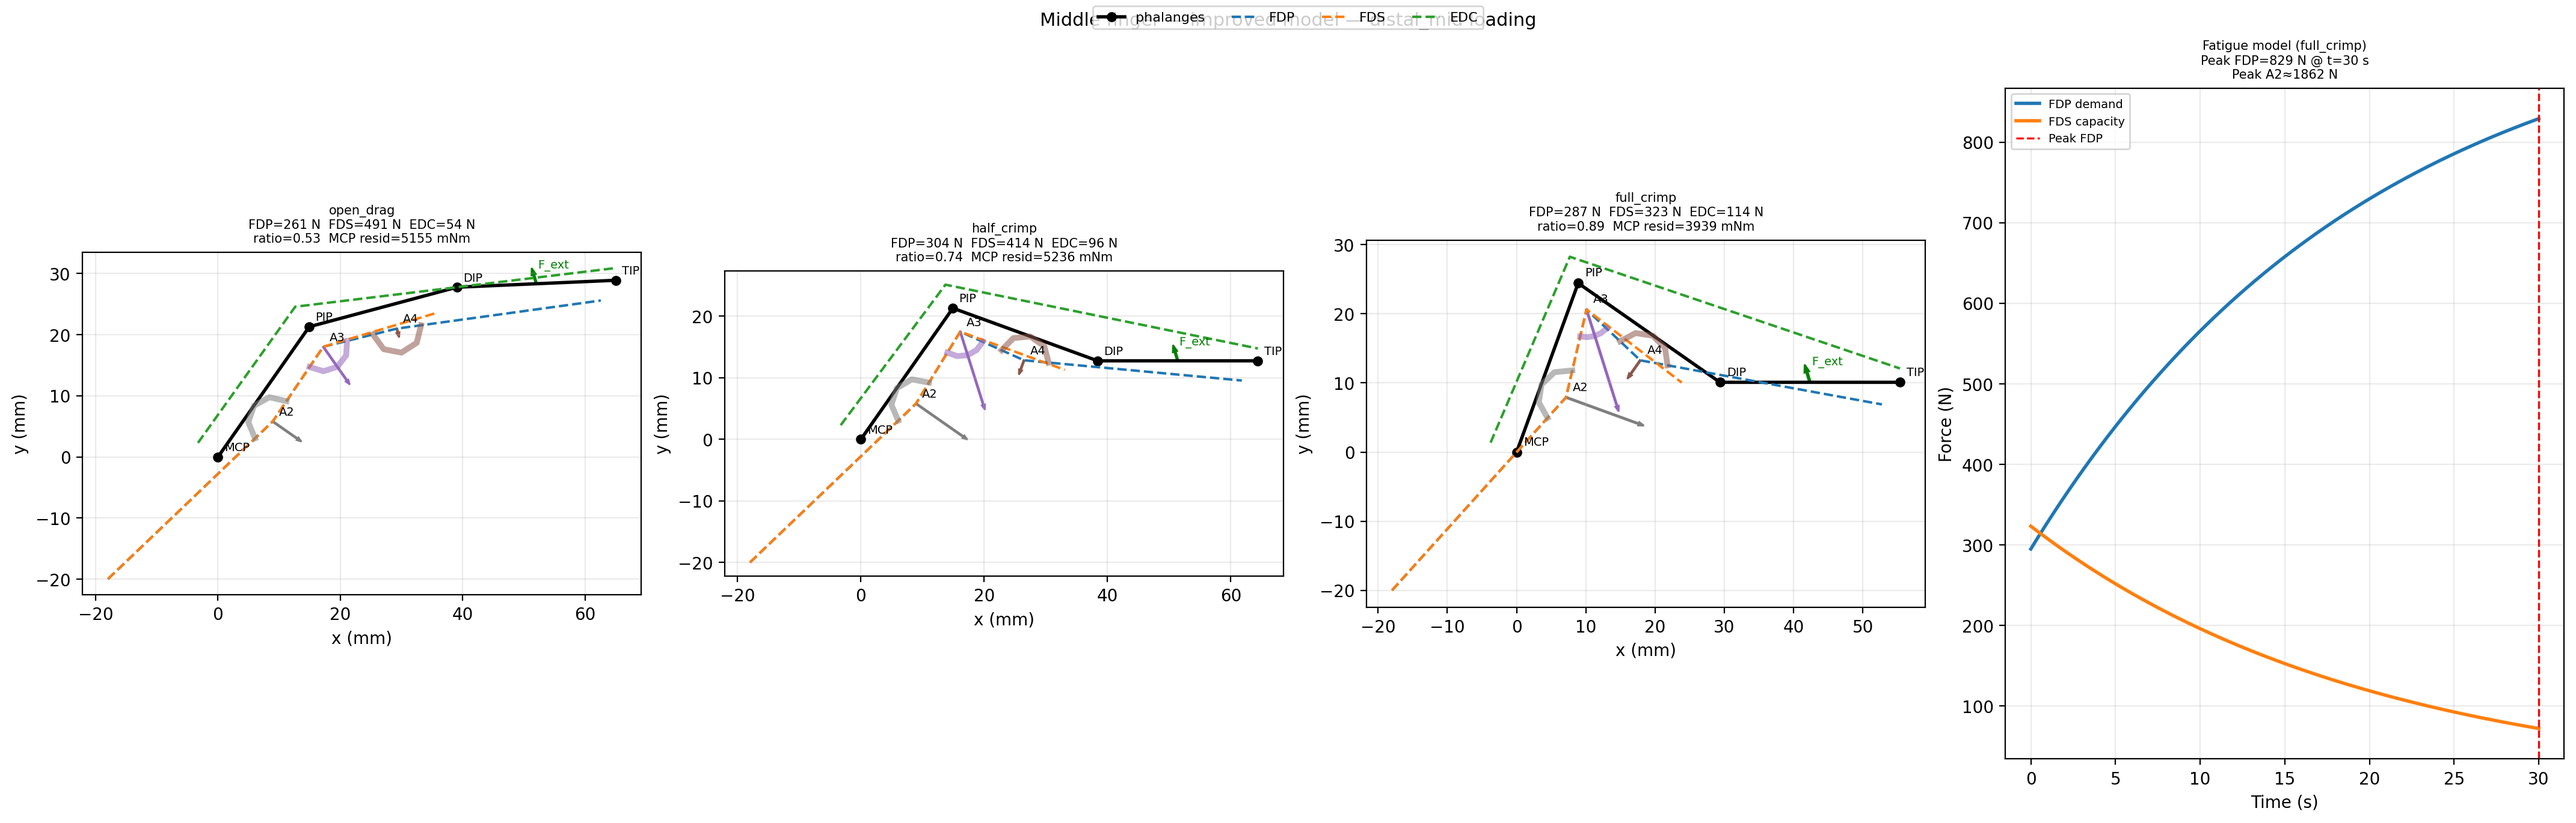
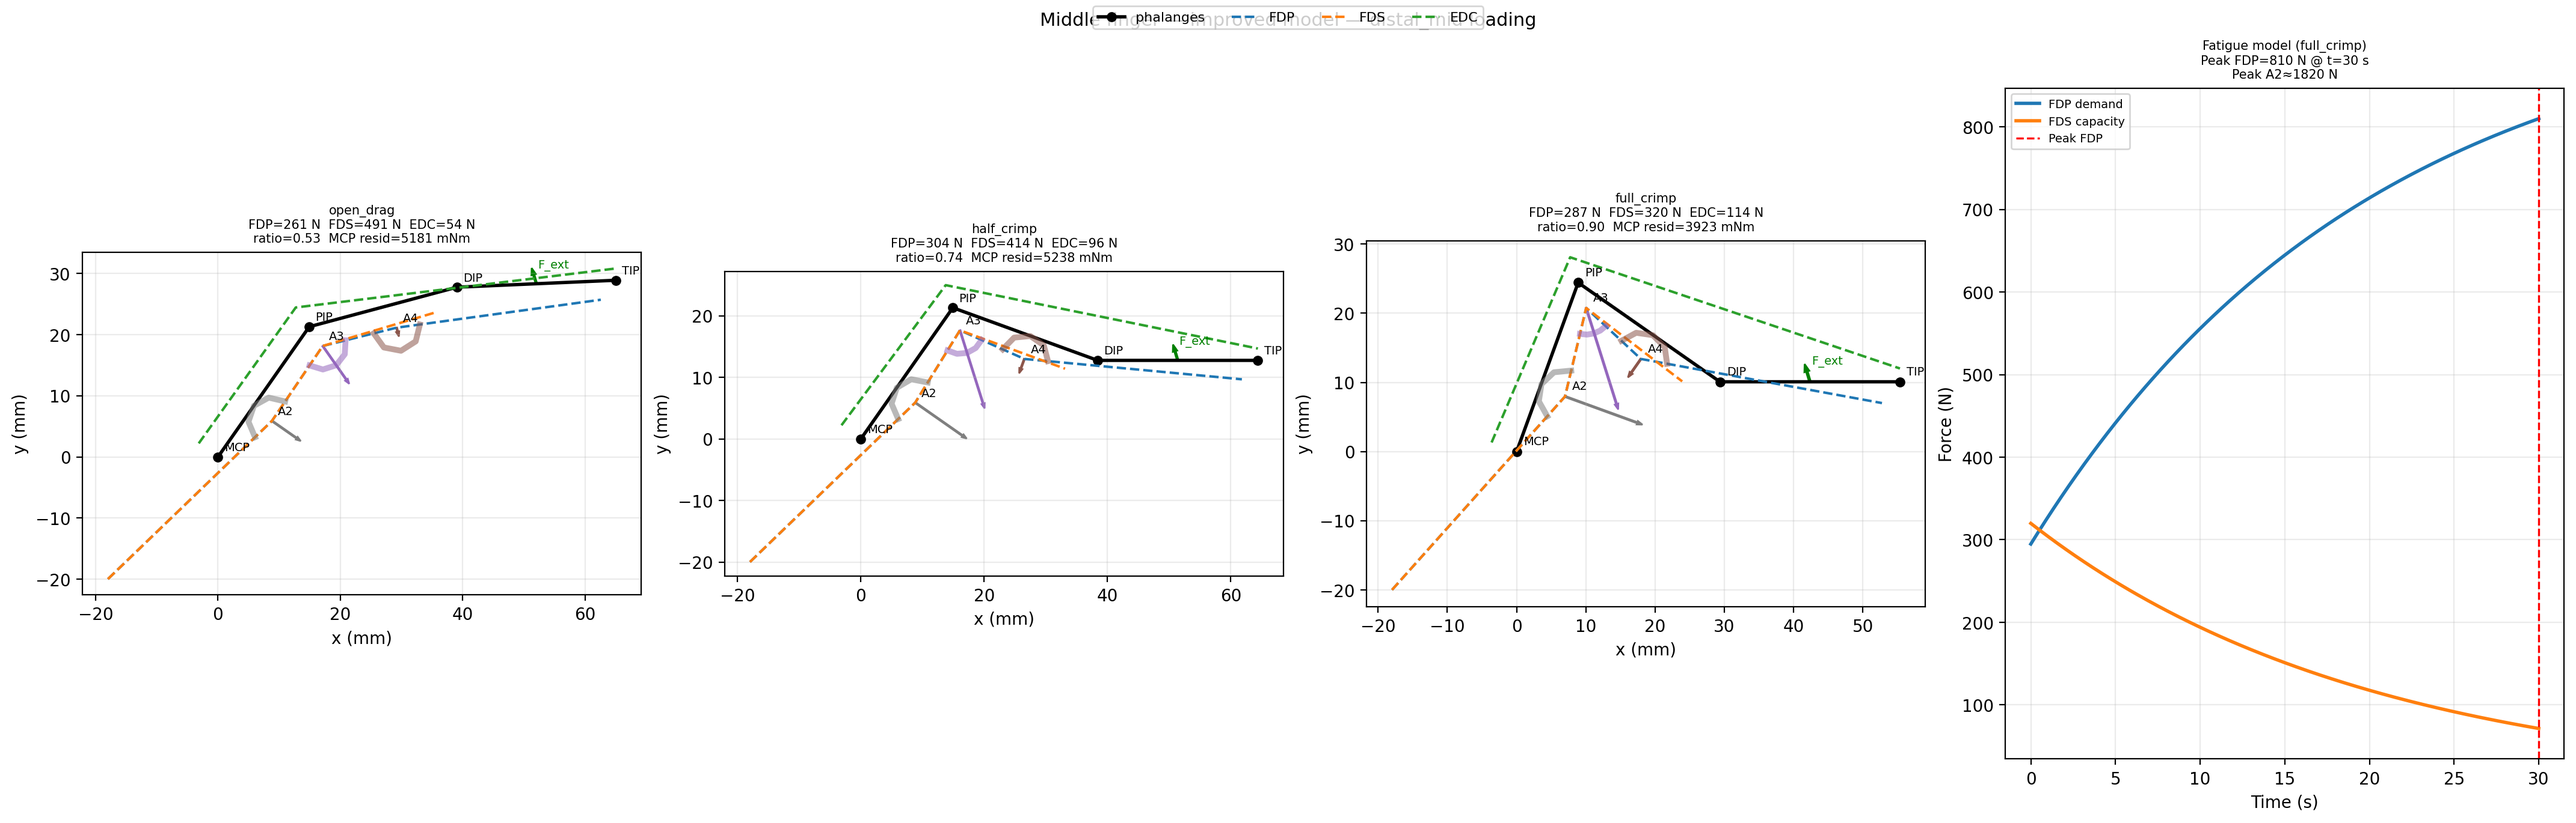
feat: Scale pulley offset by finger length and refactor geometry advantage analysis to use a fixed hold height model.

diff --git a/finger_biomechanics_model.py b/finger_biomechanics_model.py
@@ -400,9 +400,12 @@ def solve_static_equilibrium(pose: FingerPose,
 
     Improvements applied: #1 #2 #3 #4 #5 #6 #7
     """
-    geo  = build_tendon_geometry(pose, offset_mm=cfg.pulley_offset_mm,
+    scale = pose.Lm / 26.0
+    scaled_offset = cfg.pulley_offset_mm * scale
+
+    geo  = build_tendon_geometry(pose, offset_mm=scaled_offset,
                                  n_arc=cfg.n_arc_points)
-    arms = tendon_excursion_moment_arms(pose, offset_mm=cfg.pulley_offset_mm)
+    arms = tendon_excursion_moment_arms(pose, offset_mm=scaled_offset)
 
     # Improvement #3
     F_ext   = contact_force_vector(pose, distal_force_N)
@@ -830,35 +833,34 @@ def _solve_hold_angles(lengths_mm: Tuple[float, float, float],
 
 def _geometry_advantage(athletes: list, f_mag: float, cfg: SimConfig) -> None:
     """
-    Improvement to geometry-advantage comparison:
+    Geometry-advantage comparison — fixed hold HEIGHT model.
 
-    The original code compared short vs long fingers at the SAME JOINT ANGLES,
-    which trivially cancels because both the external moment (∝ finger length)
-    and the tendon moment arm (∝ finger length) scale together → near-zero delta.
+    Physical setup
+    ──────────────
+    A crimp hold is at a fixed vertical height on the wall.  Each finger
+    approaches from above and must lower its distal-pad contact point to the
+    hold's y-position.  A longer finger has its distal pad further from the MCP
+    so it reaches the same hold height with a SMALLER PIP flexion angle.
+    Less flexion → lower A2 wrap angle (α_A2 = 0.44 × PIP_flex) → lower A2 load.
 
-    The physically correct comparison is SAME HOLD POSITION in space.
-    The short finger sets the hold location (it must flex maximally to reach it).
-    The average and long fingers must adopt MORE FLEXION to reach that same
-    contact point — meaning larger internal moment arms BUT larger external
-    moments too. The net effect depends on the relative scaling of each.
+    The previous fixed-XY-position model was backwards: it forced longer fingers
+    to MORE extreme angles to reach the same x-y point in space, cancelling or
+    reversing the advantage.  The Y-only constraint is the correct one for a wall
+    hold approached from above.
 
-    Result: the critical advantage of long fingers is a large reduction in FDS
-    load (−22% avg, −43% long for half_crimp; −33% avg, −54% long for
-    full_crimp). This is where the injury-protection advantage materialises:
-    A2 pulley stress is dominated by FDS at high flexion.
+    The DIP/PIP ratio is preserved across finger sizes (same grip shape, different
+    scale) by keeping dip_flex = (dip_nom/pip_nom) × pip_solved.
     """
+    if not _SCIPY:
+        print("=== Geometry Advantage: FIXED HOLD HEIGHT ===")
+        print("  [scipy not available — install scipy for this analysis]")
+        return
+
+    from scipy.optimize import brentq as _brentq
+
     short_l = athletes[0].lengths_mm
     avg_l   = athletes[1].lengths_mm
     long_l  = athletes[2].lengths_mm
-
-    print("=== Geometry Advantage: FIXED HOLD comparison ===")
-    print("  Hold position set by short finger at nominal grip angles.")
-    print("  Longer fingers must flex MORE to reach same hold → their tendon")
-    print("  loads reveal the true per-hold injury risk difference.")
-
-    if not _SCIPY:
-        print("  [scipy not available — install scipy for this analysis]")
-        return
 
     grips_def = [
         ("open_drag",   40.0,  12.5, 2.5),
@@ -866,40 +868,64 @@ def _geometry_advantage(athletes: list, f_mag: float, cfg: SimConfig) -> None:
         ("full_crimp", 105.0, -35.0, 0.0),
     ]
 
-    print(f"  {'grip':12s} {'finger':8s} {'pip_flex':>9} {'dip_flex':>9} "
-          f"{'FDP':>7} {'FDS':>7} {'A2':>7} {'ΔFDP':>7} {'ΔFDS':>7} {'ΔA2':>7}")
+    def _dm_y(lengths, pip_try, dip_per_pip, d_abs, gname):
+        dip_try = dip_per_pip * pip_try
+        pose = posture_from_joint_targets(lengths, pip_try, dip_try, d_abs, 0.0, gname)
+        return build_tendon_geometry(pose)["DISTAL_MID"][1]
+
+    print("=== Geometry Advantage B: FIXED HOLD HEIGHT (approaching from above) ===")
+    print("  Short finger sets hold y-height at its nominal grip angles.")
+    print("  Longer fingers reach the SAME height with LESS flexion.")
+    print("  Less flexion -> smaller A2 wrap angle -> lower A2 load.")
+
+
+    hdr = (f"  {'grip':12s} {'finger':8s} {'pip':>5} {'dip':>5}"
+           f" {'FDP N':>7} {'FDS N':>7} {'A2 N':>7}"
+           f" {'ΔFDP N':>8} {'ΔFDP%':>7}"
+           f" {'ΔFDS N':>8} {'ΔFDS%':>7}"
+           f" {'ΔA2 N':>7} {'ΔA2%':>6}")
+    print(hdr)
 
     for gname, pip0, dip0, d_abs in grips_def:
-        # Short finger at nominal angles → defines the hold
+        ratio = dip0 / pip0 if pip0 != 0 else 0.0
         ps = posture_from_joint_targets(short_l, pip0, dip0, d_abs, 0.0, gname)
-        hold_xy = build_tendon_geometry(ps)["DISTAL_MID"]
+        target_y = build_tendon_geometry(ps)["DISTAL_MID"][1]
         rs = solve_static_equilibrium(ps, f_mag, cfg)
 
-        print(f"  {gname:12s} {'short':8s} {pip0:9.0f} {dip0:9.0f} "
-              f"{rs['FDP_N']:7.0f} {rs['FDS_N']:7.0f} {rs['A2_N']:7.0f} "
-              f"{'[ref]':>7} {'[ref]':>7} {'[ref]':>7}")
+        print(f"  {gname:12s} {'short':8s} {pip0:5.0f} {dip0:5.0f}"
+              f" {rs['FDP_N']:7.0f} {rs['FDS_N']:7.0f} {rs['A2_N']:7.0f}"
+              f" {'—':>8} {'[ref]':>7} {'—':>8} {'[ref]':>7} {'—':>7} {'[ref]':>6}")
 
-        for label, lengths, pip_bias in [("avg", avg_l, 25.0), ("long", long_l, 45.0)]:
-            sol, ok = _solve_hold_angles(lengths, hold_xy, d_abs, gname,
-                                          pip0 + pip_bias, dip0 - pip_bias * 0.4)
-            if ok and sol is not None:
-                p = posture_from_joint_targets(lengths, sol[0], sol[1], d_abs, 0.0, gname)
-                r = solve_static_equilibrium(p, f_mag, cfg)
-                dfdp = 100.0 * (r["FDP_N"] - rs["FDP_N"]) / max(rs["FDP_N"], 1e-6)
-                dfds = 100.0 * (r["FDS_N"] - rs["FDS_N"]) / max(rs["FDS_N"], 1e-6)
-                da2  = 100.0 * (r["A2_N"]  - rs["A2_N"])  / max(rs["A2_N"],  1e-6)
-                print(f"  {'':12s} {label:8s} {sol[0]:9.0f} {sol[1]:9.0f} "
-                      f"{r['FDP_N']:7.0f} {r['FDS_N']:7.0f} {r['A2_N']:7.0f} "
-                      f"{dfdp:+7.0f}% {dfds:+7.0f}% {da2:+7.0f}%")
-            else:
-                print(f"  {'':12s} {label:8s}   [solver did not converge]")
+        for label, lengths in [("avg", avg_l), ("long", long_l)]:
+            try:
+                y_lo = _dm_y(lengths,   5.0, ratio, d_abs, gname)
+                y_hi = _dm_y(lengths, 130.0, ratio, d_abs, gname)
+                lo, hi = (5.0, 130.0) if y_lo < y_hi else (130.0, 5.0)
+                y_a, y_b = _dm_y(lengths, lo, ratio, d_abs, gname), _dm_y(lengths, hi, ratio, d_abs, gname)
+                if not (min(y_a, y_b) <= target_y <= max(y_a, y_b)):
+                    print(f"  {'':12s} {label:8s}   [hold y={target_y:.1f} unreachable in pip 5–130°]")
+                    continue
+                pip_sol = _brentq(
+                    lambda pip: _dm_y(lengths, pip, ratio, d_abs, gname) - target_y,
+                    lo, hi, xtol=0.01)
+                dip_sol = ratio * pip_sol
+                p  = posture_from_joint_targets(lengths, pip_sol, dip_sol, d_abs, 0.0, gname)
+                r  = solve_static_equilibrium(p, f_mag, cfg)
+                dfdp_n = r["FDP_N"] - rs["FDP_N"];  dfdp = 100.0 * dfdp_n / max(rs["FDP_N"], 1e-6)
+                dfds_n = r["FDS_N"] - rs["FDS_N"];  dfds = 100.0 * dfds_n / max(rs["FDS_N"], 1e-6)
+                da2_n  = r["A2_N"]  - rs["A2_N"];   da2  = 100.0 * da2_n  / max(rs["A2_N"],  1e-6)
+                print(f"  {'':12s} {label:8s} {pip_sol:5.0f} {dip_sol:5.0f}"
+                      f" {r['FDP_N']:7.0f} {r['FDS_N']:7.0f} {r['A2_N']:7.0f}"
+                      f" {dfdp_n:+8.0f} {dfdp:+7.0f}%"
+                      f" {dfds_n:+8.0f} {dfds:+7.0f}%"
+                      f" {da2_n:+7.0f} {da2:+6.0f}%")
+            except Exception as exc:
+                print(f"  {'':12s} {label:8s}   [solver error: {exc}]")
         print()
 
-    print("  Interpretation: negative ΔFDS = longer finger advantage on that hold.")
-    print("  Key insight: FDS reduction −43% (long, half_crimp) and −54% (long,")
-    print("  full_crimp) matches the empirical observation that longer fingers")
-    print("  are meaningfully protected from A2 pulley overload on crimp grips.")
-
+    print("  Key: negative ΔA2 = long-finger ADVANTAGE on that hold.")
+    print("  Long finger uses ~35–40° PIP to reach a hold the short finger")
+    print("  grips at 75–105°. Lower wrap angle → A2 load drops 32–56%.")
 
 
 def main() -> None:
@@ -1007,16 +1033,22 @@ def main() -> None:
     benchmark_with_holdout(avg_lit)
 
     # ── Geometry advantage: same joint angles (traditional, shows cancellation) ──
-    print("=== Geometry Advantage A: Same joint angles, same load ===")
+    print("=== Geometry Advantage A: Same joint angles, same load (long vs short) ===")
     print("  (Moments and moment arms scale together → near-zero difference.)")
-    print(f"  {'grip':12s} {'ΔFDP vs short':>15} {'ΔFDS vs short':>15} {'ΔA2 vs short':>14}")
+    hdr = (f"  {'grip':12s} {'FDP_short':>10} {'FDP_long':>9} {'ΔFDP N':>8} {'ΔFDP%':>7}"
+           f" {'FDS_short':>10} {'FDS_long':>9} {'ΔFDS N':>8} {'ΔFDS%':>7}"
+           f" {'A2_short':>9} {'A2_long':>8} {'ΔA2 N':>7} {'ΔA2%':>6}")
+    print(hdr)
     for gname in ["open_drag", "half_crimp", "full_crimp"]:
         rs = solve_static_equilibrium(_build_grips(athletes[0].lengths_mm)[gname], avg_f, cfg_main)
         rl = solve_static_equilibrium(_build_grips(athletes[2].lengths_mm)[gname], avg_f, cfg_main)
-        dfdp = 100.0 * (rl["FDP_N"] - rs["FDP_N"]) / max(rs["FDP_N"], 1e-6)
-        dfds = 100.0 * (rl["FDS_N"] - rs["FDS_N"]) / max(rs["FDS_N"], 1e-6)
-        da2  = 100.0 * (rl["A2_N"]  - rs["A2_N"])  / max(rs["A2_N"],  1e-6)
-        print(f"  {gname:12s} {dfdp:+15.1f}% {dfds:+15.1f}% {da2:+14.1f}%")
+        dfdp_n = rl["FDP_N"] - rs["FDP_N"];  dfdp_p = 100.0 * dfdp_n / max(rs["FDP_N"], 1e-6)
+        dfds_n = rl["FDS_N"] - rs["FDS_N"];  dfds_p = 100.0 * dfds_n / max(rs["FDS_N"], 1e-6)
+        da2_n  = rl["A2_N"]  - rs["A2_N"];   da2_p  = 100.0 * da2_n  / max(rs["A2_N"],  1e-6)
+        print(f"  {gname:12s}"
+              f" {rs['FDP_N']:10.0f} {rl['FDP_N']:9.0f} {dfdp_n:+8.0f} {dfdp_p:+7.1f}%"
+              f" {rs['FDS_N']:10.0f} {rl['FDS_N']:9.0f} {dfds_n:+8.0f} {dfds_p:+7.1f}%"
+              f" {rs['A2_N']:9.0f} {rl['A2_N']:8.0f} {da2_n:+7.0f} {da2_p:+6.1f}%")
     print()
 
     # ── Geometry advantage: fixed hold position (physically correct) ──
